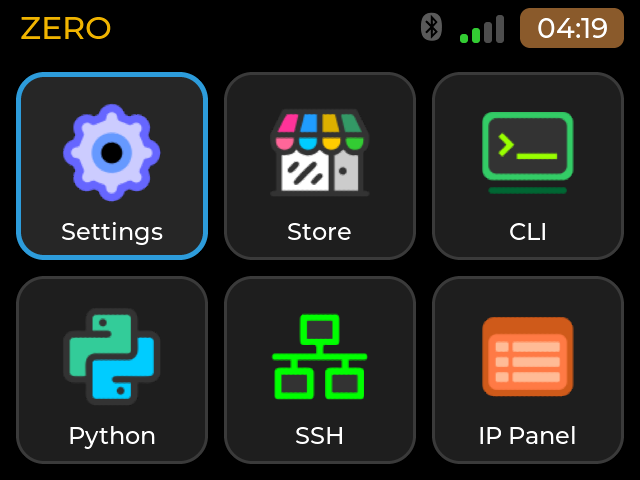
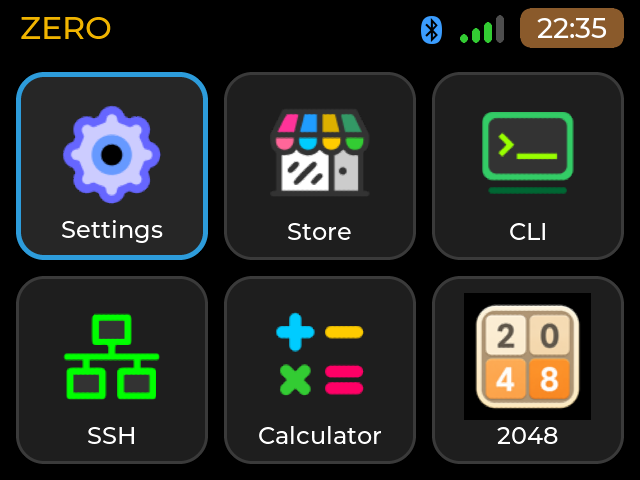
README: current screenshots from the deck, short update of what the project does now
New captures of the native Settings (Wi-Fi network names pixelated),
the Calculator and the SSH form; the intro mentions the other boards, the
on-screen keyboard fallback, the app contract and the default apps source.

Claude-Session: https://claude.ai/code/session_01PunoXjocwoD5ebhBVDDEfc

diff --git a/README.md b/README.md
@@ -8,19 +8,27 @@ and asked it to adapt the CardputerZero launcher to that machine. This repositor
 CardputerZero launcher running on a Pi Zero 2W, with touch, a 2x upscaled window for the stock 320x170
 apps, a full-screen terminal, a Calculator, the Store, Wi-Fi / Bluetooth / time settings and a PWM backlight.
 
+It has since grown beyond that one machine: one code base now adapts its layout to the screen, and it also runs on a
+Raspberry Pi 3A+ with a 3.5" SPI panel and on a HackBerry CM5 (720x720). It has a native, touch-friendly Settings, a
+fallback on-screen keyboard that shows only when no physical keyboard is present, a small
+[app contract](docs/APP-CONTRACT.md) so apps can adapt to the screen too, and our own apps source
+([cyberdeck-zero-apps](https://github.com/OSRdesign/cyberdeck-zero-apps)) offered by default in Settings > Apps.
+
 > **This is a hobby project and a derivative work.** Almost all of the code is the work of the CardputerZero
 > and M5Stack teams and of the open-source projects listed in the credits below. My changes are the Pi port
 > (see [`projects/APPLaunch/pizero2w/`](projects/APPLaunch/pizero2w/)) and were written together with Claude.
 
 ## Screenshots
 
-Captured from the deck's own framebuffer (640x480).
+Captured from the deck's own framebuffer (640x480). Network names are pixelated.
 
 | Home grid | Settings |
 | --- | --- |
 | ![Home grid](docs/screenshots/home.png) | ![Settings](docs/screenshots/settings.png) |
 | **Settings > Wi-Fi** | **Settings > Bluetooth** |
 | ![Wi-Fi settings](docs/screenshots/settings-wifi.png) | ![Bluetooth settings](docs/screenshots/settings-bluetooth.png) |
+| **Calculator** | **SSH** |
+| ![Calculator](docs/screenshots/calculator.png) | ![SSH form](docs/screenshots/ssh.png) |
 
 The Store (stock CardputerZero app, upscaled 2x) while it syncs its catalog:
 
